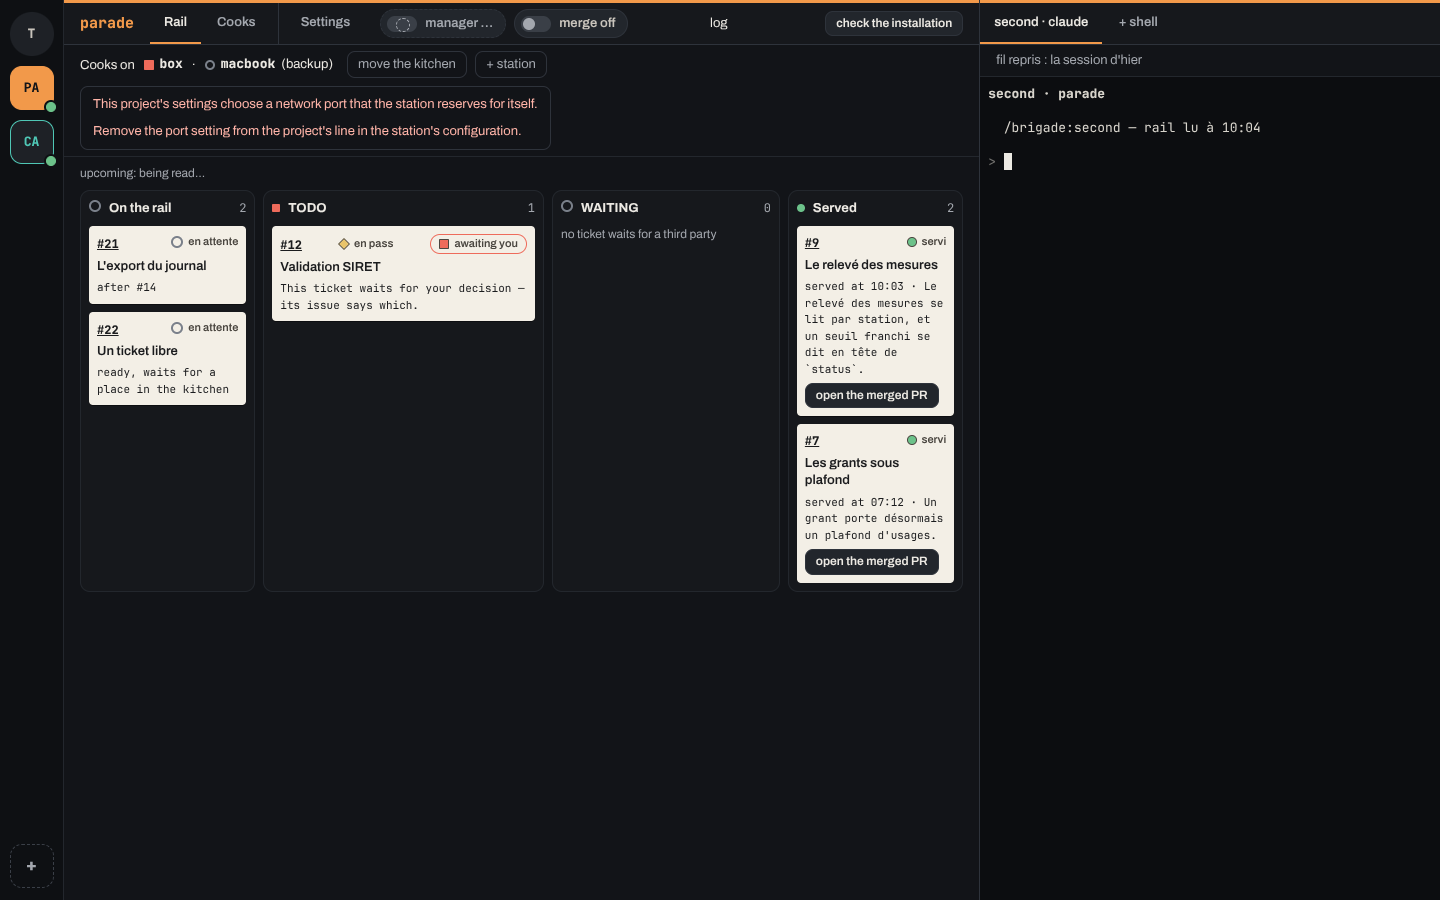
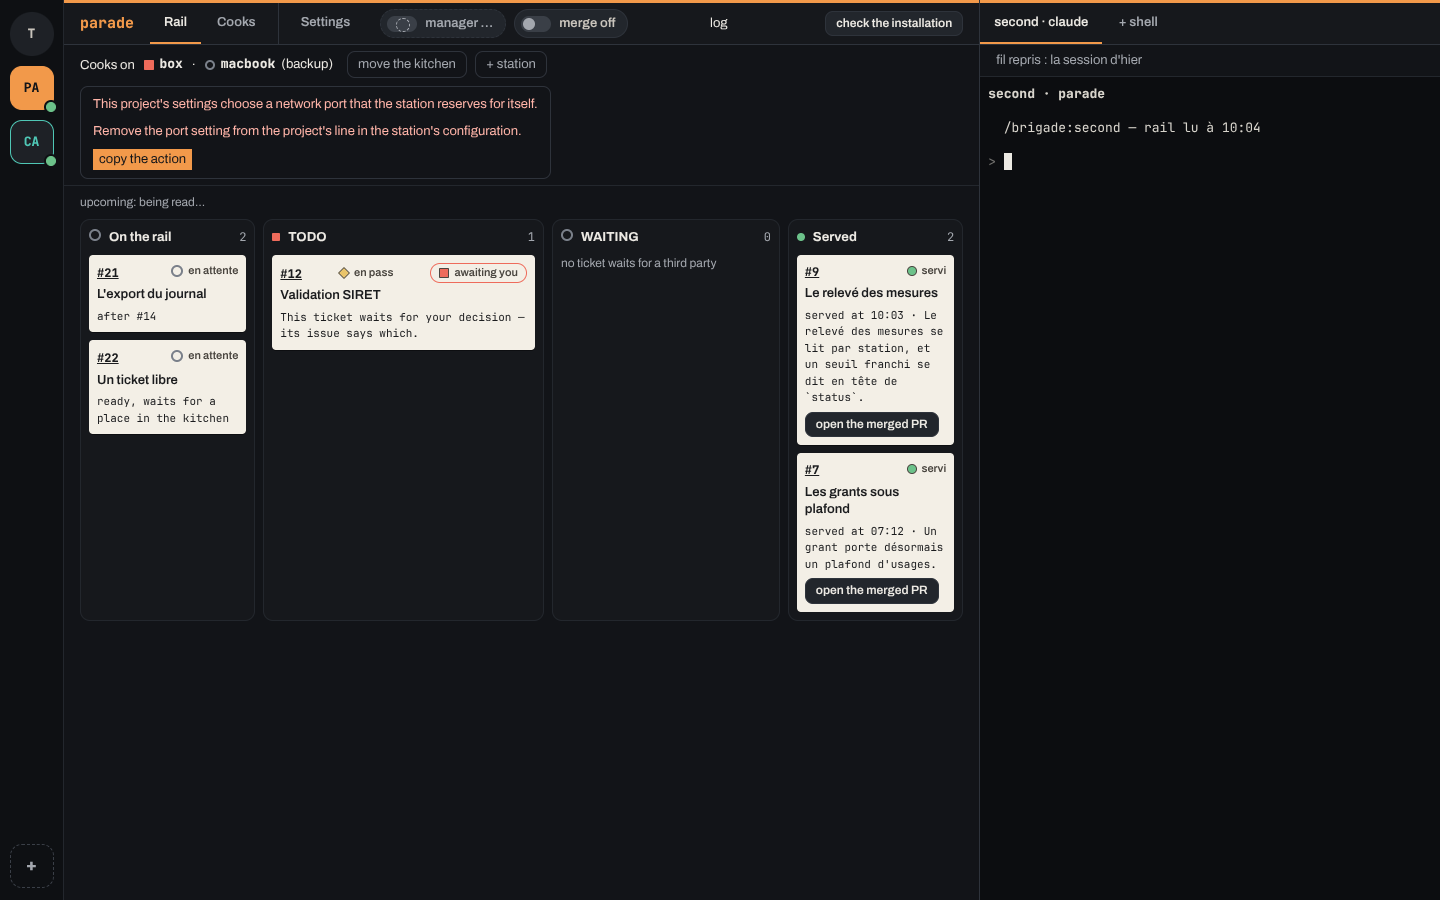
fix(#1178): le geste d'un refus de la station est un bouton — retirer le projet, le ramener ici, ou copier l'action

Changed region(s): [[0.0625, 0.1556, 0.5, 0.4978], [0.5312, 0.2178, 0.6875, 0.6844]]

diff --git a/app/src/vue/onboarding/depot-retenu.js b/app/src/vue/onboarding/depot-retenu.js
@@ -52,22 +52,58 @@ function accesDit(doc, acces, copier) {
 
 // Le refus de la station (ticket 1178), tel qu'elle le publie : la phrase qui dit pourquoi, puis ce que
 // le chef fait. Jamais le texte brut du fichier `en-service`, ni un chemin : le code n'est qu'au survol.
-/** @param {Fabrique} doc @param {Refus} refus */
-function refusDit(doc, refus) {
+// Le geste attendu est un bouton (règle 830) : là où l'app sait le faire — retirer le projet, le ramener sur
+// cette station —, il le fait ; sinon le geste est de la machine de la station, que l'app ne pilote pas, et le
+// bouton copie l'action. Le runtime ne publie que du texte : le geste se choisit ici, d'après le code.
+export const RETIRER = "remove the project";
+export const CONFIRMER_RETRAIT = "confirm: remove it from its stations";
+export const RAMENER = "move the kitchen back";
+export const COPIER_L_ACTION = "copy the action";
+const RETIRABLES = ["configuration-invalid", "clone-missing"];
+
+/** @param {Fabrique} doc @param {Refus} refus @param {{ retirer: () => Promise<string>, ramener: () => void, copier: (texte: string) => void }} gestes */
+function refusDit(doc, refus, { retirer, ramener, copier }) {
   const pose = cree(doc, "div");
   const pourquoi = cree(doc, "p", refus.message);
   pourquoi.title = refus.code;
   const action = cree(doc, "p", refus.action);
   action.className = "refus-action";
-  pose.append(pourquoi, action);
+  const dit = cree(doc, "p");
+  dit.hidden = true;
+  /** @type {any} */
+  let geste;
+  if (RETIRABLES.includes(refus.code)) {
+    let demande = false;
+    geste = boutonAction(doc, RETIRER, async () => {
+      const bouton = geste.children[0];
+      if (!demande) {
+        demande = true;
+        if (bouton !== undefined) bouton.textContent = CONFIRMER_RETRAIT;
+        return;
+      }
+      demande = false;
+      if (bouton !== undefined) bouton.textContent = RETIRER;
+      dit.textContent = await retirer();
+      dit.hidden = false;
+    }, { recommande: true });
+  } else if (refus.code === "handed-over-elsewhere") {
+    geste = boutonAction(doc, RAMENER, ramener, { recommande: true });
+  } else {
+    geste = boutonAction(doc, COPIER_L_ACTION, () => {
+      copier(refus.action);
+      const bouton = geste.children[0];
+      if (bouton !== undefined) bouton.textContent = COPIEE;
+    }, { recommande: true });
+  }
+  pose.append(pourquoi, action, geste, dit);
   return pose;
 }
 
 // Le bloc à poser sous la ligne des stations, ou null : rien ne retient la cuisine. L'accès refusé
 // prime sur l'échec du worktree — c'est lui que le geste lève — mais l'heure du prochain essai se dit
 // avec, quand le worktree en a une.
-/** @param {Fabrique} doc @param {{ acces?: Acces | null, refus?: Refus | null, worktree?: Echec | null, maintenant: number, copier: (commande: string) => void }} retenu */
-export function poserDepotRetenu(doc, { acces, refus, worktree, maintenant, copier }) {
+/** @param {Fabrique} doc @param {{ acces?: Acces | null, refus?: Refus | null, worktree?: Echec | null, maintenant: number, copier: (commande: string) => void, retirer?: () => Promise<string>, ramener?: () => void }} retenu */
+export function poserDepotRetenu(doc, { acces, refus, worktree, maintenant, copier, retirer = async () => "", ramener = () => {} }) {
   const bloque = acces ?? worktree?.acces ?? null;
   const refuse = bloque === null && refus !== null && refus !== undefined ? refus : null;
   if (bloque === null && refuse === null && (worktree === null || worktree === undefined)) return null;
@@ -78,7 +114,7 @@ export function poserDepotRetenu(doc, { acces, refus, worktree, maintenant, copi
     pose.append(accesDit(doc, bloque, copier));
     if (worktree !== null && worktree !== undefined) pose.append(cree(doc, "p", prochainEssaiDit(worktree.prochainEssai, maintenant)));
   } else if (refuse !== null) {
-    pose.append(refusDit(doc, refuse));
+    pose.append(refusDit(doc, refuse, { retirer, ramener, copier }));
   } else if (worktree !== null && worktree !== undefined) {
     const raison = cree(doc, "p", `The worktree of #${worktree.ticket} could not be prepared: ${worktree.raison}`);
     raison.title = worktree.raison;

diff --git a/app/test/projets/depot-retenu.test.ts b/app/test/projets/depot-retenu.test.ts
@@ -24,7 +24,7 @@ import type { Panne } from "../../src/pannes/pannes.ts";
 import { lireSuivi } from "../../src/projets/demande.ts";
 import { calibrageRecommande, EFFORTS, machineProposee, MODELES, type ProjetVu, type VuDesProjets } from "../../src/projets/projets.ts";
 import type { VuDesStations } from "../../src/stations/stations.ts";
-import { COPIEE, COPIER, poserDepotRetenu } from "../../src/vue/onboarding/depot-retenu.js";
+import { CONFIRMER_RETRAIT, COPIEE, COPIER, COPIER_L_ACTION, poserDepotRetenu, RAMENER, RETIRER } from "../../src/vue/onboarding/depot-retenu.js";
 import { Faux as Fabrique, type Faux, jouerLaVue, repos } from "../aides/fausse-vue.ts";
 
 const A = "2026-10-19T12:00:00.000Z";
@@ -188,6 +188,36 @@ test("un projet refusé par la station : la page dit pourquoi et ce que le chef 
   assert.ok(lignes.includes(REFUS.action), lignes.join(" | "));
   assert.doesNotMatch(bloc.textContent, /en-service|\/etc\//);
   assert.doesNotMatch(bloc.textContent, /within a minute/);
+  // Le geste attendu est un bouton : celui-ci, sans levier dans l'app, copie l'action.
+  const boutons = bloc.dessous("button").filter((b) => b.textContent === COPIER_L_ACTION);
+  assert.equal(boutons.length, 1, "un bouton « copy the action »");
+  assert.equal(boutons[0]?.className, "recommande");
+});
+
+test("le geste d'un refus est un bouton : retirer le projet (en deux clics), le ramener ici, ou copier l'action", async () => {
+  const doc = { createElement: (balise: string) => new Fabrique(balise) };
+  const pose = (code: string, plus: object = {}) => poserDepotRetenu(doc, { refus: { ...REFUS, code }, maintenant: 0, copier: () => {}, ...plus }) as unknown as Faux;
+  const retires: string[] = [];
+  const retirer = pose("clone-missing", { retirer: async () => (retires.push("x"), "parade is removed") });
+  const bouton = retirer.dessous("button")[0] ?? assert.fail("pas de bouton");
+  assert.equal(bouton.textContent, RETIRER);
+  bouton.click();
+  assert.equal(bouton.textContent, CONFIRMER_RETRAIT);
+  assert.deepEqual(retires, [], "le premier clic ne retire rien");
+  bouton.click();
+  await repos();
+  assert.deepEqual(retires, ["x"]);
+  assert.match(retirer.textContent, /parade is removed/);
+  let ramene = 0;
+  const ramener = pose("handed-over-elsewhere", { ramener: () => ramene++ }).dessous("button")[0] ?? assert.fail("pas de bouton");
+  assert.equal(ramener.textContent, RAMENER);
+  ramener.click();
+  assert.equal(ramene, 1);
+  const copiees: string[] = [];
+  const copie = pose("proxy-port-set", { copier: (texte: string) => copiees.push(texte) }).dessous("button")[0] ?? assert.fail("pas de bouton");
+  copie.click();
+  assert.deepEqual(copiees, [REFUS.action]);
+  assert.equal(copie.textContent, COPIEE);
 });
 
 test("sans refus, la page est inchangée ; un refus sans phrase ou sans action ne dit rien", async () => {

diff --git a/app/src/vue/vue.js b/app/src/vue/vue.js
@@ -5360,7 +5360,10 @@ function poserStationsDuProjet() {
   ouvrirLaConfiance.hidden = confiance !== undefined || demenagement !== undefined || !lues;
   const vu = projetsVus?.projets.find(({ nom }) => nom === projet.nom);
   const onboarding = vu?.onboarding ?? null;
-  const retenu = poserDepotRetenu(document, { acces: vu?.acces ?? null, refus: vu?.refus ?? null, worktree: vu?.worktree ?? null, maintenant: Date.now(), copier: (commande) => void navigator.clipboard.writeText(commande) });
+  const retenu = poserDepotRetenu(document, { acces: vu?.acces ?? null, refus: vu?.refus ?? null, worktree: vu?.worktree ?? null, maintenant: Date.now(), copier: (commande) => void navigator.clipboard.writeText(commande), ramener: ouvrirLeChoixDeMachine, retirer: async () => {
+    const rendu = await brigade.retirerDUneStation(projet.nom);
+    return "refus" in rendu ? rendu.refus : `${rendu.retire} is removed: each of its stations takes it out of its configuration within a minute`;
+  } });
   depotRetenu.hidden = retenu === null;
   depotRetenu.replaceChildren(...(retenu === null ? [] : [retenu]));
   // La station dit ce qui la retient : la phrase qui promet de se préparer « within a minute » ne se dit plus.

diff --git a/docs/app.md b/docs/app.md
@@ -915,7 +915,7 @@ plus. Sans l'un ni l'autre, rien ne change. **Le refus de la station** (#1178) :
 projet sans accès refusé à dire, son suivi porte `refus` (#1177 : un code stable, une phrase, l'action du
 chef) ; le même bloc pose la phrase (`This project's settings choose a network port that the station reserves
 for itself.`, le code au survol) puis l'action en dessous — jamais le texte brut du fichier `en-service`, ni un
-chemin. L'accès refusé, plus précis, prime sur lui. Captures : `docs/captures/1178/`. La station l'efface quand le geste est fait : la page relue
+chemin. L'action est suivie d'un bouton recommandé : « remove the project » (en deux clics) pour `configuration-invalid` et `clone-missing`, « move the kitchen back » pour `handed-over-elsewhere`, sinon « copy the action » — le geste se fait sur la machine de la station. L'accès refusé, plus précis, prime sur lui. Captures : `docs/captures/1178/`. La station l'efface quand le geste est fait : la page relue
 (chaque lecture des stations) revient à son message, sans recharger l'app. Le module est
 `app/src/vue/onboarding/depot-retenu.js`.
 
